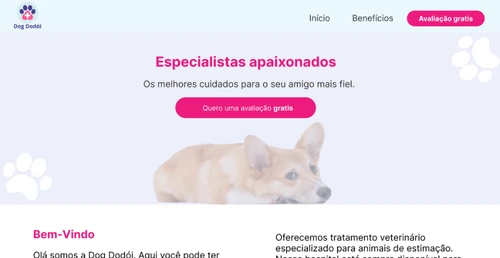
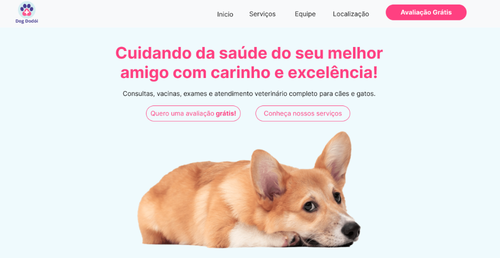
Atualização projetos

diff --git a/index.html b/index.html
@@ -254,8 +254,8 @@
                                 <span>Bootstrap</span>
                             </div>
                             <div class="project-links">
-                                <a href="https://github.com/SamuelOlDourado/lend-page-Barbearia">GitHub</a>
-                                <a href="https://lend-page-barbearia.vercel.app/">Visualizar</a>
+                                <a href="https://github.com/SamuelOlDourado/lend-page-Barbearia" target="_blank">GitHub</a>
+                                <a href="https://lend-page-barbearia.vercel.app/" target="_blank">Visualizar</a>
                             </div>
                         </div>
                     </div>
@@ -281,8 +281,8 @@
                                 <span>Consumo API</span>
                             </div>
                             <div class="project-links">
-                                <a href="https://github.com/SamuelOlDourado/FormalizAI">GitHub</a>
-                                <a href="https://formaliz-ai-kappa.vercel.app/">Visualizar</a>
+                                <a href="https://github.com/SamuelOlDourado/FormalizAI" target="_blank">GitHub</a>
+                                <a href="https://formaliz-ai-kappa.vercel.app/" target="_blank">Visualizar</a>
                             </div>
                         </div>
                     </div>
@@ -307,8 +307,8 @@
                                 <span>Consumo API</span>
                             </div>
                             <div class="project-links">
-                                <a href="https://github.com/SamuelOlDourado/GerAI">GitHub</a>
-                                <a href="https://ger-ai-three.vercel.app/">Visualizar</a>
+                                <a href="https://github.com/SamuelOlDourado/GerAI" target="_blank">GitHub</a>
+                                <a href="https://ger-ai-three.vercel.app/" target="_blank">Visualizar</a>
                             </div>
                         </div>
                     </div>
@@ -332,8 +332,8 @@
                                 <span>Bootstrap</span>
                             </div>
                             <div class="project-links">
-                                <a href="https://github.com/SamuelOlDourado/PaginaDevClub">GitHub</a>
-                                <a href="https://pagina-dev-club.vercel.app/">Visualizar</a>
+                                <a href="https://github.com/SamuelOlDourado/PaginaDevClub" target="_blank">GitHub</a>
+                                <a href="https://pagina-dev-club.vercel.app/" target="_blank">Visualizar</a>
                             </div>
                         </div>
                     </div>
@@ -357,8 +357,8 @@
                                 <span>Bootstrap</span>
                             </div>
                             <div class="project-links">
-                                <a href="https://github.com/SamuelOlDourado/streamis-net-landingpage">GitHub</a>
-                                <a href="https://streamis-net.vercel.app/">Visualizar</a>
+                                <a href="https://github.com/SamuelOlDourado/streamis-net-landingpage" target="_blank">GitHub</a>
+                                <a href="https://streamis-net.vercel.app/" target="_blank">Visualizar</a>
                             </div>
                         </div>
                     </div>
@@ -381,8 +381,8 @@
                                 <span>Consumo API</span>
                             </div>
                             <div class="project-links">
-                                <a href="https://github.com/SamuelOlDourado/converta-ja">GitHub</a>
-                                <a href="https://converta-ja.vercel.app/">Visualizar</a>
+                                <a href="https://github.com/SamuelOlDourado/converta-ja" target="_blank">GitHub</a>
+                                <a href="https://converta-ja.vercel.app/" target="_blank">Visualizar</a>
                             </div>
                         </div>
                     </div>
@@ -406,8 +406,30 @@
                                 <span>HTML/CSS</span>
                             </div>
                             <div class="project-links">
-                                <a href="https://github.com/SamuelOlDourado/Projeto-cadastro-viloes">GitHub</a>
-                                <a href="https://projeto-cadastro-viloes.vercel.app/">Visualizar</a>
+                                <a href="https://github.com/SamuelOlDourado/Projeto-cadastro-viloes" target="_blank">GitHub</a>
+                                <a href="https://projeto-cadastro-viloes.vercel.app/" target="_blank">Visualizar</a>
+                            </div>
+                        </div>
+                    </div>
+                </div>
+
+
+                <div class="col-12 col-md-6 col-lg-4 project-col design">
+                    <div class="project-card design">
+                        <img src="img/projetos/Dogdodoi-print.webp" alt="Barbearia">
+                        <div class="project-content">
+                            <h3>landing page Dog dodoi</h3>
+                            <p>
+                                Dog Dodói é uma landing page responsiva para uma clínica veterinária fictícia. O projeto 
+                                foi desenvolvido com foco em organização das informações, identidade visual e uma experiência 
+                                agradável para o usuário.
+                            </p>
+                            <div class="project-tech">
+                                <span>Figma</span>
+                                <span>UI Design</span>
+                            </div>
+                            <div class="project-links">
+                                <a href="https://www.figma.com/proto/7fb3ByattBIMlQYREteVZx/Sem-t%C3%ADtulo?node-id=14-2&p=f&t=Q0oEH5lWjjwVTR9k-0&scaling=min-zoom&content-scaling=fixed&page-id=0%3A1" target="_blank">Visualizar</a>
                             </div>
                         </div>
                     </div>
@@ -430,8 +452,8 @@
                                 <span>Bootstrap</span>
                             </div>
                             <div class="project-links">
-                                <a href="https://github.com/SamuelOlDourado/GameStack-project-visual">GitHub</a>
-                                <a href="https://game-stack-project.vercel.app/">Visualizar</a>
+                                <a href="https://github.com/SamuelOlDourado/GameStack-project-visual target="_blank"">GitHub</a>
+                                <a href="https://game-stack-project.vercel.app/" target="_blank">Visualizar</a>
                             </div>
                         </div>
                     </div>
@@ -454,54 +476,12 @@
                                 <span>JS</span>
                             </div>
                             <div class="project-links">
-                                <a href="https://github.com/SamuelOlDourado/SiteVovoCONECTADO">GitHub</a>
-                                <a href="https://site-vovo-conectado.vercel.app/">Visualizar</a>
+                                <a href="https://github.com/SamuelOlDourado/SiteVovoCONECTADO" target="_blank">GitHub</a>
+                                <a href="https://site-vovo-conectado.vercel.app/" target="_blank">Visualizar</a>
                             </div>
                         </div>
                     </div>
                 </div>
-
-
-                <div class="col-12 col-md-6 col-lg-4 project-col design">
-                    <div class="project-card design">
-                        <img src="img/projetos/Dogdodoi-print.webp" alt="Barbearia">
-                        <div class="project-content">
-                            <h3>landing page Dog dodoi</h3>
-                            <p>
-                                Design de landing page para divulgar uma clinica veterinária ficticia.
-                            </p>
-                            <div class="project-tech">
-                                <span>Figma</span>
-                                <span>Canva</span>
-                            </div>
-                            <div class="project-links">
-                                <a
-                                    href="https://www.figma.com/proto/oc0MGexSNLYQTLvBhFqISw/Untitled?node-id=1-3&p=f&t=fl955xhCn6SKpgXK-0&scaling=min-zoom&content-scaling=fixed&page-id=0%3A1">Visualizar</a>
-                            </div>
-                        </div>
-                    </div>
-                </div>
-
-                <div class="col-12 col-md-6 col-lg-4 project-col design">
-                    <div class="project-card design">
-                        <img src="img/projetos/Desembit-print.webp" alt="Barbearia">
-                        <div class="project-content">
-                            <h3>Design DesemBit</h3>
-                            <p>
-                                Design protótipo de uma pagina de venda de jogos digitais.
-                            </p>
-                            <div class="project-tech">
-                                <span>Figma</span>
-                                <span>Canva</span>
-                            </div>
-                            <div class="project-links">
-                                <a
-                                    href="https://www.figma.com/proto/GuaL1yYznrDvmMNytn57T5/desen-bit?node-id=1-2&p=f&t=r00GTd0RpAZtK3xP-0&scaling=min-zoom&content-scaling=fixed&page-id=0%3A1&starting-point-node-id=1%3A21">Visualizar</a>
-                            </div>
-                        </div>
-                    </div>
-                </div>
-
 
 
             </div>
